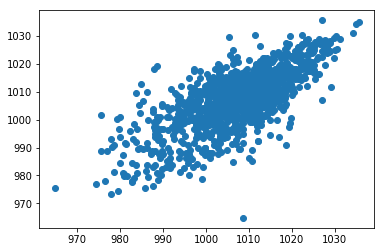
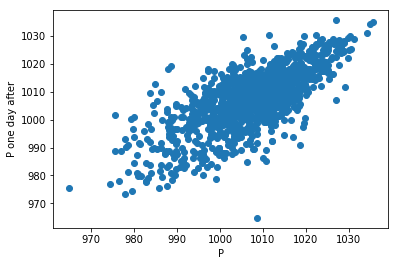
updated pictures

diff --git a/weather_UoR/correlation.py b/weather_UoR/correlation.py
@@ -1,6 +1,14 @@
 #!/usr/bin/env python3
 # -*- coding: utf-8 -*-
 """
+Created on Tue Mar 19 10:56:58 2019
+
+@author: mc4117
+"""
+
+#!/usr/bin/env python3
+# -*- coding: utf-8 -*-
+"""
 Created on Mon Mar 18 15:48:30 2019
 
 @author: mc4117
@@ -54,58 +62,36 @@ noon['Number_of_days'] = noon['TimeStamp'].map(lambda x: (x-mydate).days)
 
 def plt_dist_24(noon_df, column_name):
 
-    restr = noon_df[['Number_of_days', column_name]]
-
-    list1_days = []
-    list1_data = []
-
-    list2_days = []
-    list2_data = []
+    restr = noon_df[['Td', 'TSoil100', 'P', column_name]]
     
-    for i in range(len(restr)):
-        list1_days.append(restr.loc[i]['Number_of_days'])
-        list1_data.append(restr.loc[i][column_name])
-        df = restr[restr['Number_of_days'] == restr['Number_of_days'][i] + 1].reset_index(drop=True)
-        if len(df) == 0:
-            list2_days.append(np.nan)
-            list2_data.append(np.nan)
-        elif len(df) == 1:
-            list2_days.append(df.loc[0]['Number_of_days'])
-            list2_data.append(df.loc[0][column_name])
-        else:
-            print('error')
-    
-    
-    df_diff = pd.concat([pd.DataFrame(list1_data, columns = [str(column_name) + '_pre']), pd.DataFrame(list2_data, columns = [str(column_name) + '_post'])], axis = 1)
-
-    plt.scatter(df_diff[str(column_name) + '_pre'], df_diff[str(column_name) + '_post'])
-    plt.xlabel(str(column_name))
-    plt.ylabel(str(column_name) + ' one day after')
-    plt.show()
-
-    df_diff_no_nan = df_diff.dropna()
+    X = restr[['Td', 'TSoil100', 'P']]
+    y = restr[column_name]
 
     
-    X_train, X_test, y_train, y_test = skl.model_selection.train_test_split(df_diff_no_nan[str(column_name) + '_pre'], df_diff_no_nan[str(column_name) + '_post'], test_size=0.25, random_state=42)
+
+
+    
+    X_train, X_test, y_train, y_test = skl.model_selection.train_test_split(X, y, test_size=0.25, random_state=42)
     
     return X_train, X_test, y_train, y_test
     
-for i in column_list:
+new_column_list = ['RH', 'Sdur', 'Rain_accum_der', 'U10']
+
+for i in new_column_list:
     print(i)
     X_train, X_test, y_train, y_test = plt_dist_24(noon, i)
     # Create linear regression object
     regr = linear_model.LinearRegression()
 
-    array_x = np.array(X_train).reshape(-1,1)
-    array_y = np.array(y_train).reshape(-1,1)
+    #array_x = np.array(X_train).reshape(-1,1)
+    #array_y = np.array(y_train).reshape(-1,1)
     # Train the model using the training sets
-    regr.fit(array_x, array_y)
+    regr.fit(X_train, y_train)
     
-    array_X_test = np.array(X_test).reshape(-1,1)
-    array_y_test = np.array(y_test).reshape(-1,1)    
+ 
 
     # Make predictions using the testing set
-    y_pred = regr.predict(array_X_test)
+    y_pred = regr.predict(X_test)
     
     # The coefficients
     print('Coefficients: \n', regr.coef_)
@@ -113,4 +99,4 @@ for i in column_list:
     print("Mean squared error: %.2f"
       % skl.metrics.mean_squared_error(y_test, y_pred))
     # Explained variance score: 1 is perfect prediction
-    print('Variance score: %.2f' %skl.metrics.r2_score(array_y_test, y_pred, multioutput='raw_values'))
+    print('Variance score: %.2f' %skl.metrics.r2_score(y_test, y_pred))5#, multioutput='raw_values'))
